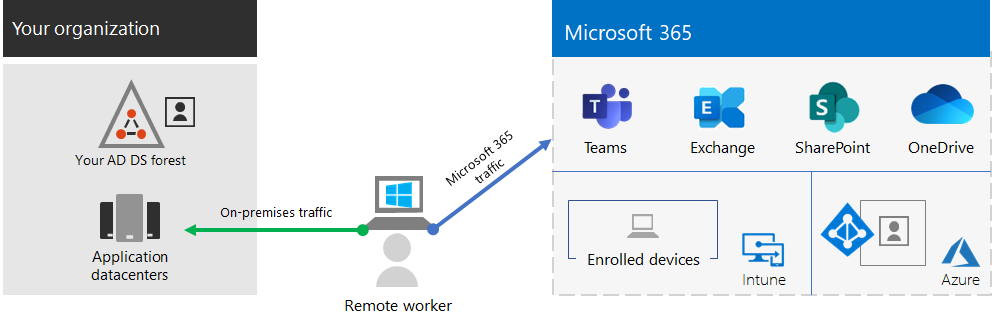
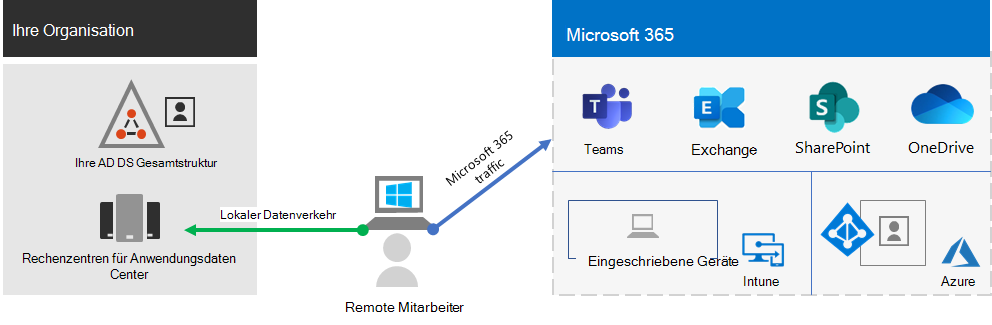
commit translated contents

diff --git a/microsoft-365/compliance/data-loss-prevention-policies.md b/microsoft-365/compliance/data-loss-prevention-policies.md
@@ -18,12 +18,12 @@ ms.collection:
 search.appverid:
 - MET150
 description: Mithilfe einer Richtlinie zur Verhinderung von Datenverlust (Data Loss Prevention, DLP) im Security &amp; Compliance Center können Sie vertrauliche Informationen in Office 365 identifizieren, überwachen und automatisch schützen.
-ms.openlocfilehash: 3f4cabab120f418e4c410a1e1f052868ad453f67
-ms.sourcegitcommit: 584e2e9db8c541fe32624acdca5e12ee327fdb63
+ms.openlocfilehash: c6a099924852927a319990d3886a10479e96999b
+ms.sourcegitcommit: df6cc8c2eb2a65c7668f2953b0f7ec783a596d15
 ms.translationtype: HT
 ms.contentlocale: de-DE
-ms.lasthandoff: 06/10/2020
-ms.locfileid: "44679069"
+ms.lasthandoff: 06/13/2020
+ms.locfileid: "44726550"
 ---
 # <a name="overview-of-data-loss-prevention"></a>Verhinderung von Datenverlust – Übersicht
 <!-- this topic needs to be split into smaller, more coherent ones. It is confusing as it is. -->
@@ -416,7 +416,7 @@ Wenn Sie DLP-Richtlinien erstellen, die potenziell weitreichende Auswirkungen ha
   
 1. **Beginnen Sie im Testmodus ohne Richtlinientipps**, und werten Sie die Auswirkungen dann anhand der DLP-Berichte aus. Sie können DLP-Berichte verwenden, um Anzahl, Ort, Typ und Schwere von Richtlinienübereinstimmungen anzuzeigen. Basierend auf den Ergebnissen können Sie die Regeln bei Bedarf anpassen. Im Testmodus haben DLP-Richtlinien keinen Einfluss auf die Produktivität der Mitarbeiter in Ihrer Organisation. 
     
-2. **Fahren Sie im Testmodus mit Benachrichtigungen und Richtlinientipps fort**, sodass Sie die Benutzer über die Einhaltungsrichtlinien in Kenntnis setzen und auf die Anwendung der Regeln vorbereiten können. In dieser Phase können Sie die Benutzer auch bitte, Sie über falsche Positivmeldungen zu benachrichtigen, damit Sie die Regeln noch besser abstimmen können. 
+2. **Move to Test mode with notifications and Policy Tips** so that you can begin to teach users about your compliance policies and prepare them for the rules that are going to be applied. At this stage, you can also ask users to report false positives so that you can further refine the rules. 
     
 3. **Beginnen Sie mit der vollständigen Durchsetzung der Richtlinien**, sodass die Aktionen in den Regeln angewendet werden und der Inhalt geschützt ist. Überwachen Sie weiterhin die DLP-Berichte und alle Schadensberichte oder Benachrichtigungen, um sicherzustellen, dass die von Ihnen gewünschten Ergebnisse erzielt werden. 
 
@@ -448,7 +448,7 @@ Darüber hinaus können Sie die DLP-Berichte verwenden, um Ihre DLP-Richtlinien 
   
 ## <a name="how-dlp-policies-work"></a>Funktionsweise von DLP-Richtlinien
 
-DLP erkennt vertrauliche Informationen mithilfe einer eingehenden Inhaltsanalyse (nicht nur einer einfachen Textprüfung). Bei dieser eingehenden Inhaltsanalyse werden Schlüsselwortübereinstimmung, Wörterbuchübereinstimmungen, die Auswertung regulärer Ausdrücke, interne Funktionen sowie weitere Inhaltsuntersuchungsmethoden herangezogen, um Inhalte zu erkennen, welche die DLP-Richtlinien erfüllen. Möglicherweise gilt nur ein kleiner Prozentsatz Ihrer Daten als vertraulich. Eine DLP-Richtlinie kann nur diese Daten bestimmen, überwachen und automatisch schützen, ohne Personen zu behindern, die mit den restlichen Inhalten arbeiten.
+DLP detects sensitive information by using deep content analysis (not just a simple text scan). This deep content analysis uses keyword matches, dictionary matches, the evaluation of regular expressions, internal functions, and other methods to detect content that matches your DLP policies. Potentially only a small percentage of your data is considered sensitive. A DLP policy can identify, monitor, and automatically protect just that data, without impeding or affecting people who work with the rest of your content.
   
 ### <a name="policies-are-synced"></a>Richtlinien werden synchronisiert
 
@@ -480,9 +480,13 @@ Während Dokumente auf Websites hinzugefügt oder geändert werden, werden die I
   
 ![Diagramm, in dem dargestellt ist, wie eine DLP-Richtlinie Inhalte asynchron auswertet](../media/bdf73099-039a-4909-ae89-ac12c41992ba.png)
   
-<!-- conflict with a DLP policy is bad wording --> Dokumente können jedoch nicht nur mit einer DLP-Richtlinie in Konflikt stehen, sondern es können auch Änderungen vorgenommen werden, die dazu führen, dass sie nun einer DLP-Richtlinie entsprechen. Wenn eine Person zum Beispiel einem Dokument Kreditkartennummern hinzufügt, kann dies dazu führen, dass die DLP-Richtlinie den Zugriff auf das Dokument automatisch sperrt. Wenn die Person jedoch später die vertraulichen Informationen entfernt, wird die Aktion (in diesem Fall die Sperre) automatisch entfernt, wenn das Dokument das nächste Mal anhand der Richtlinie ausgewertet wird.
+<!-- conflict with a DLP policy is bad wording -->
+Finally, documents can conflict with a DLP policy, but they can also become compliant with a DLP policy. For example, if a person adds credit card numbers to a document, it might cause a DLP policy to block access to the document automatically. But if the person later removes the sensitive information, the action (in this case, blocking) is automatically undone the next time the document is evaluated against the policy.
   
 Eine DLP wertet alle Inhalte aus, die indiziert werden können. Weitere Informationen zu den Dateitypen, die standardmäßig durchforstet werden, finden Sie unter [Standardmäßig durchforstete Dateinamenerweiterungen und analysierte Dateitypen in SharePoint Server](https://docs.microsoft.com/SharePoint/technical-reference/default-crawled-file-name-extensions-and-parsed-file-types).
+
+> [!NOTE]
+> Die externe Freigabe neuer Dateien in SharePoint kann standardmäßig blockiert werden, bis das neue Element von mindestens einer DLP-Richtlinie gescannt wurde. Ausführliche Informationen finden Sie unter [Neue Dateien standardmäßig als vertraulich kennzeichnen](https://docs.microsoft.com/sharepoint/sensitive-by-default). 
   
 ### <a name="policy-evaluation-in-exchange-online-outlook-and-outlook-on-the-web"></a>Richtlinienauswertung in Exchange, Outlook und Outlook im Web
 
